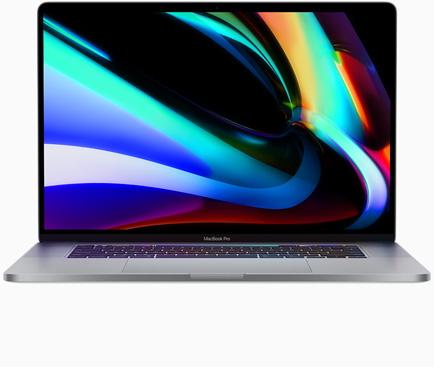
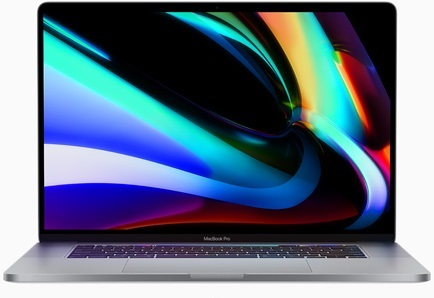
resized macbook pro top header image height

diff --git a/index.html b/index.html
@@ -120,7 +120,7 @@
             </li>
           </ul>
         </div>
-        <div class="item-img-wrapper">
+        <div class="item-img-wrapper pt-3">
           <img src="./images/home/macbook-pro.jpg" alt="" />
         </div>
       </div>
